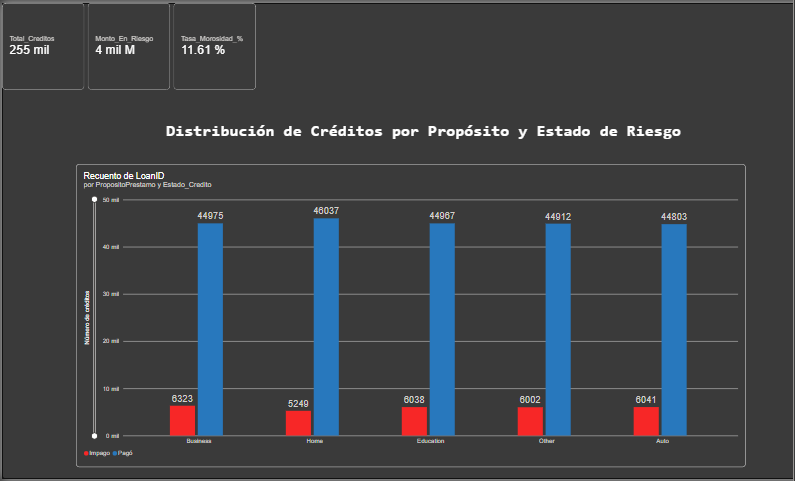
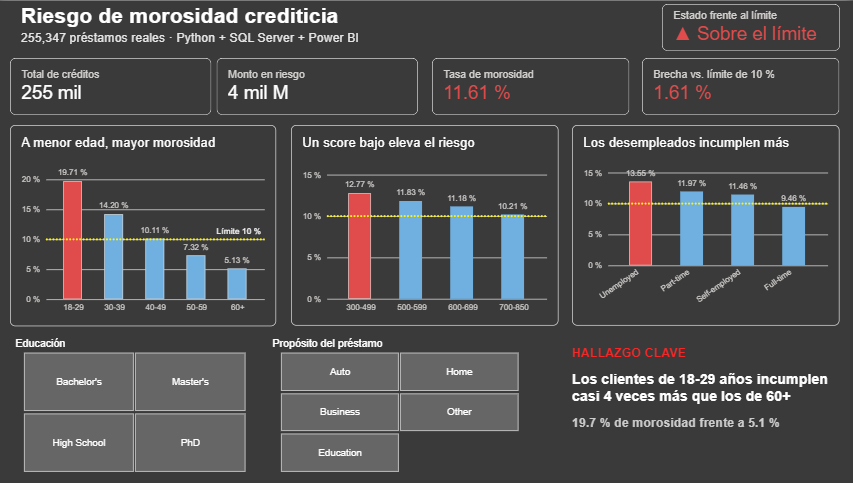
Rediseña dashboard (Resumen y Detalle) y actualiza README

diff --git a/README.md b/README.md
@@ -12,6 +12,7 @@ Proyecto de portafolio que lleva un dataset real de préstamos de Kaggle desde e
 - **Tamaño:** 255,347 filas y 18 columnas.
 - **Licencia del dataset:** CC0 1.0 (dominio público). Autor en Kaggle: `nikhil1e9`.
 - El CSV no está en este repositorio por su tamaño (se descarga desde Kaggle). El archivo `.pbix` sí incluye los datos importados.
+- Los valores de las categorías (por ejemplo `Unemployed` o `Bachelor's`) se muestran en inglés, tal como vienen en el dataset. El dataset tampoco indica la moneda del monto.
 
 ## Flujo del proyecto
 
@@ -83,11 +84,13 @@ Meta_Morosidad = 0.10
 Brecha_vs_Meta = [Tasa_Morosidad_%] - [Meta_Morosidad]
 
 Estado_Meta =
-IF([Tasa_Morosidad_%] > [Meta_Morosidad], "▲ Sobre la meta", "▼ Bajo la meta")
+IF([Tasa_Morosidad_%] > [Meta_Morosidad], "▲ Sobre el límite", "▼ Dentro del límite")
 
 Color_Meta =
 IF([Tasa_Morosidad_%] > [Meta_Morosidad], "#E04B4B", "#2E9E5B")
 ```
+
+El 10 % es un límite de referencia definido para este análisis (no viene en el dataset). Medidas y columnas conservan el nombre `Meta` por compatibilidad, pero en el dashboard se presentan como **límite**.
 
 Columnas calculadas para segmentar:
 
@@ -114,13 +117,13 @@ SWITCH(
 Estado_Credito = IF(Fact_Prestamos[EstadoImpago] = TRUE, "Impago", "Pagó")
 ```
 
-El dashboard tiene dos páginas. El dataset no incluye fechas, así que el análisis se hace por segmentos y no por evolución en el tiempo.
+El dashboard tiene dos páginas. El dataset no incluye fechas, así que el análisis se hace por segmentos y no por evolución en el tiempo. Los colores tienen un significado fijo: **rojo** es el grupo de mayor riesgo o lo que supera el límite del 10 %, **verde** es lo que queda bajo el límite y **azul** es neutro.
 
-- **Página 1, Resumen:** tarjetas con total de créditos, monto en riesgo y tasa de morosidad, y un gráfico de columnas con el número de créditos por propósito y estado (Pagó/Impago).
-- **Página 2, Riesgo por segmentos:** tarjetas con la tasa de morosidad, la brecha frente a una meta del 10 % y el estado de la meta, más la morosidad por rango de score, tipo de empleo y rango de edad, con filtros por nivel educativo y propósito del préstamo.
+- **Resumen:** tarjetas con el total de créditos, el monto en riesgo, la tasa de morosidad, la brecha frente al límite del 10 % y el estado frente al límite; tres gráficos (edad, score y tipo de empleo) con la línea del límite y la barra de mayor riesgo en rojo; filtros por nivel educativo y propósito del préstamo; y un cuadro con el hallazgo clave.
+- **Detalle:** una matriz de calor de morosidad por edad y score crediticio, un gráfico de anillo con la proporción de créditos pagados e impagos, y los gráficos por propósito del préstamo y por nivel educativo.
 
-![Dashboard, página 1](docs/capturas/06_powerbi_dashboard.png)
-![Dashboard, página 2](docs/capturas/07_powerbi_riesgo_segmentos.png)
+![Dashboard, página Resumen](docs/capturas/06_powerbi_dashboard.png)
+![Dashboard, página Detalle](docs/capturas/07_powerbi_riesgo_segmentos.png)
 
 ## Cifras de control
 
@@ -131,7 +134,7 @@ El dashboard tiene dos páginas. El dataset no incluye fechas, así que el anál
 | Tasa de morosidad | 11.61 % |
 | Monto en riesgo | 4,285,312,531 |
 
-Los números se verificaron entre el CSV original, SQL Server y Power BI. El dataset no indica la moneda del monto.
+Los números se verificaron entre el CSV original, SQL Server y Power BI.
 
 ## Hallazgos
 
@@ -173,10 +176,21 @@ Tasa de morosidad por rango de edad:
 | 50-59 | 49,149 | 3,596 | 7.32 % |
 | 60+ | 48,974 | 2,511 | 5.13 % |
 
+Tasa de morosidad por nivel educativo:
+
+| Nivel educativo | Morosidad |
+|---|---|
+| High School | 12.88 % |
+| Bachelor's | 12.10 % |
+| Master's | 10.87 % |
+| PhD | 10.59 % |
+
 - La **edad** es la variable que más separa el riesgo: los clientes de 18-29 años incumplen casi 4 veces más que los de 60+ (19.71 % frente a 5.13 %), una diferencia de unos 14.6 puntos.
+- Al cruzar edad y score, el peor grupo (18-29 años con score 300-499) llega a **21.55 %** y el mejor (60+ años con score 700-850) baja a **4.40 %**.
 - Los clientes **desempleados** tienen la morosidad más alta por tipo de empleo (13.55 %), unos 4 puntos por encima de quienes tienen empleo a tiempo completo (9.46 %).
-- La morosidad baja a medida que sube el **score crediticio** (de 12.77 % a 10.21 %), pero la diferencia es moderada, de unos 2.6 puntos.
+- La morosidad baja a medida que sube el **score crediticio** (de 12.77 % a 10.21 %) y el **nivel educativo** (de 12.88 % a 10.59 %), pero las diferencias son moderadas, de unos 2 a 2.6 puntos.
 - Por **propósito** la diferencia es la menor: Business es el más riesgoso (12.33 %) y Home el menos (10.23 %).
+- Todos los propósitos y niveles educativos quedan por encima del límite de referencia del 10 %.
 - Son asociaciones observadas en este dataset, no relaciones de causa y efecto.
 
 Las consultas que generan estas tablas están al final de `sql/script_sql.sql`.
